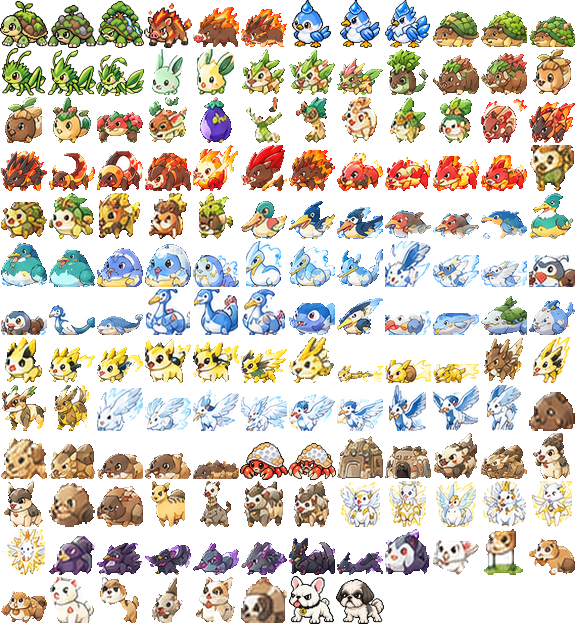
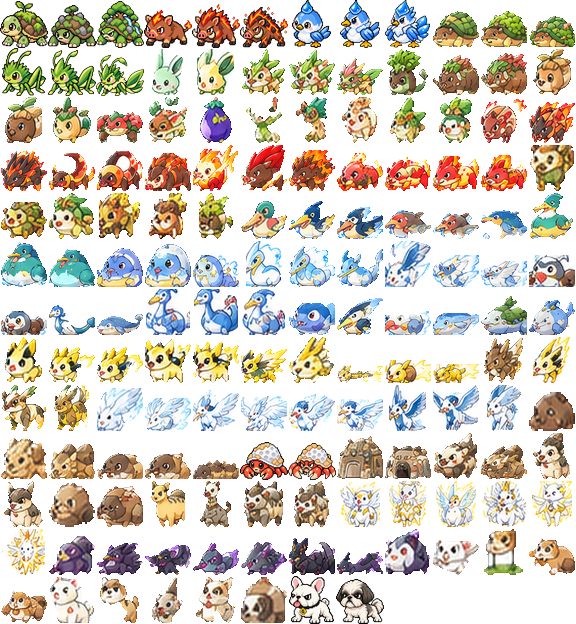
ヒノシシを新ドット絵に差し替え、シシバーン・シシボルケを追加（ヒノシシの進化復活）
Claude-Session: https://claude.ai/code/session_018VDSYCPciSbMvR8kKaJDnr

Changed region(s): [[0.25, 0.0, 0.5, 0.0913]]

diff --git a/js/dex.js b/js/dex.js
@@ -5,7 +5,7 @@
 // ============================================================
 // 使用するモンスター。null にすると図鑑の全員が使われる。
 //   （2026-09-28：御三家以外はいったん外す。新しいドット絵ができた個体から追加していく）
-const DEX_ENABLED = ['kokegame', 'morigame', 'nushigame', 'hinoshishi', 'amepiyo', 'amegamo', 'doshagamo', 'bubu', 'mantou', 'bankani', 'oobankani', 'shibatta', 'rafubatta', 'shigebatta'];
+const DEX_ENABLED = ['kokegame', 'morigame', 'nushigame', 'hinoshishi', 'shishiburn', 'shishivolke', 'amepiyo', 'amegamo', 'doshagamo', 'bubu', 'mantou', 'bankani', 'oobankani', 'shibatta', 'rafubatta', 'shigebatta'];
 
 const DEX = [
   // ---- 御三家 ----
